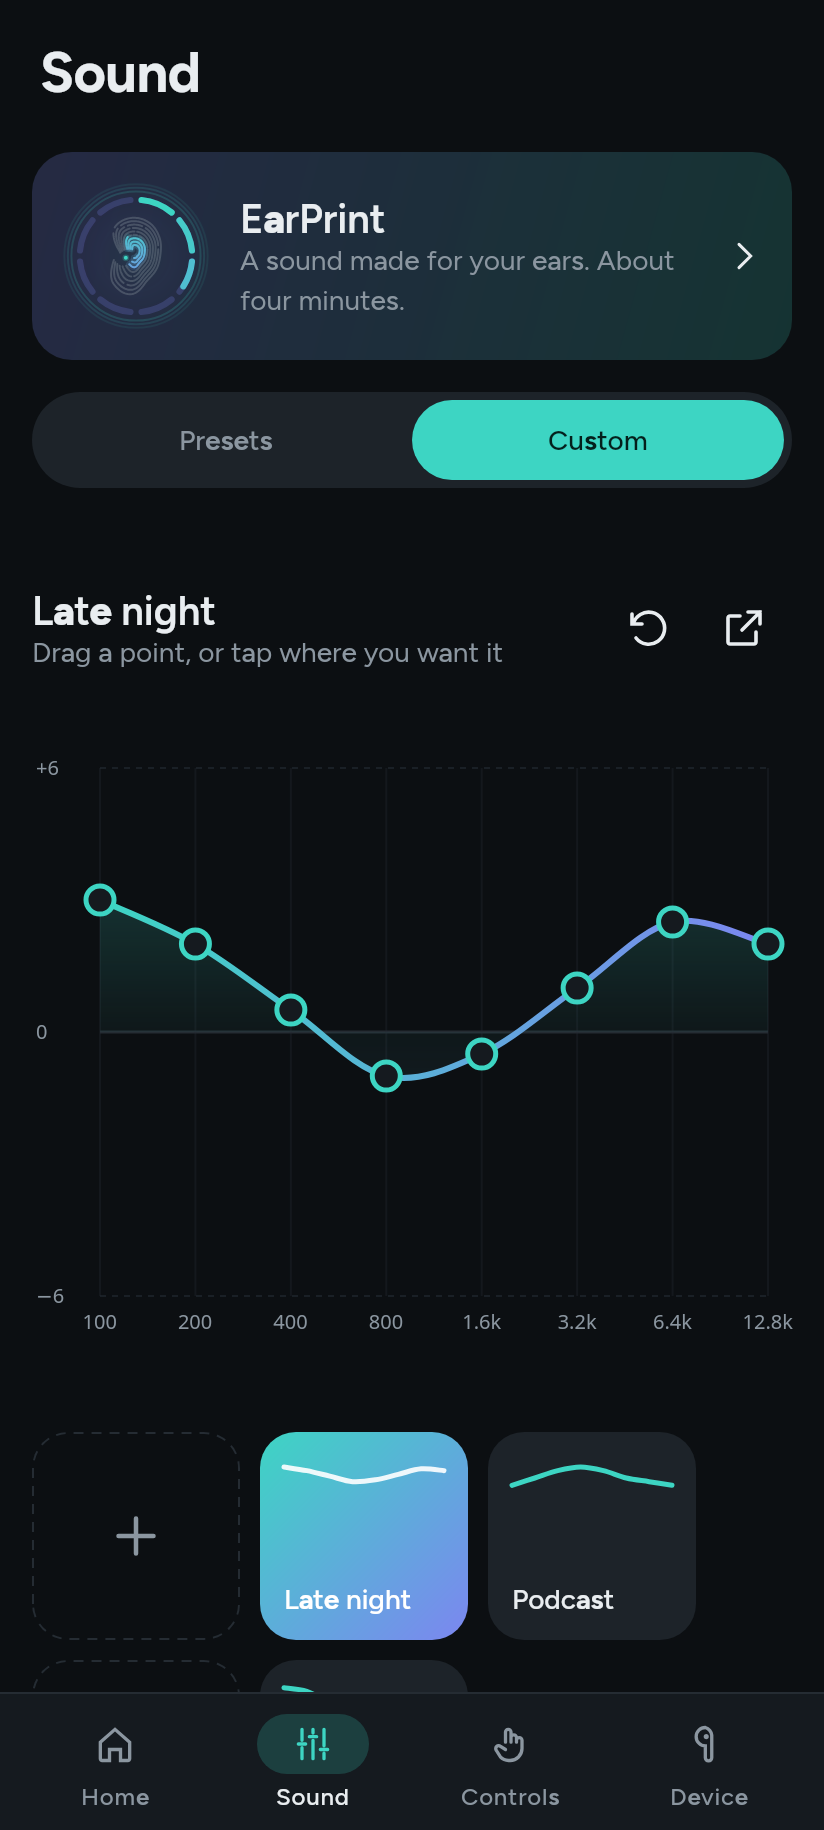
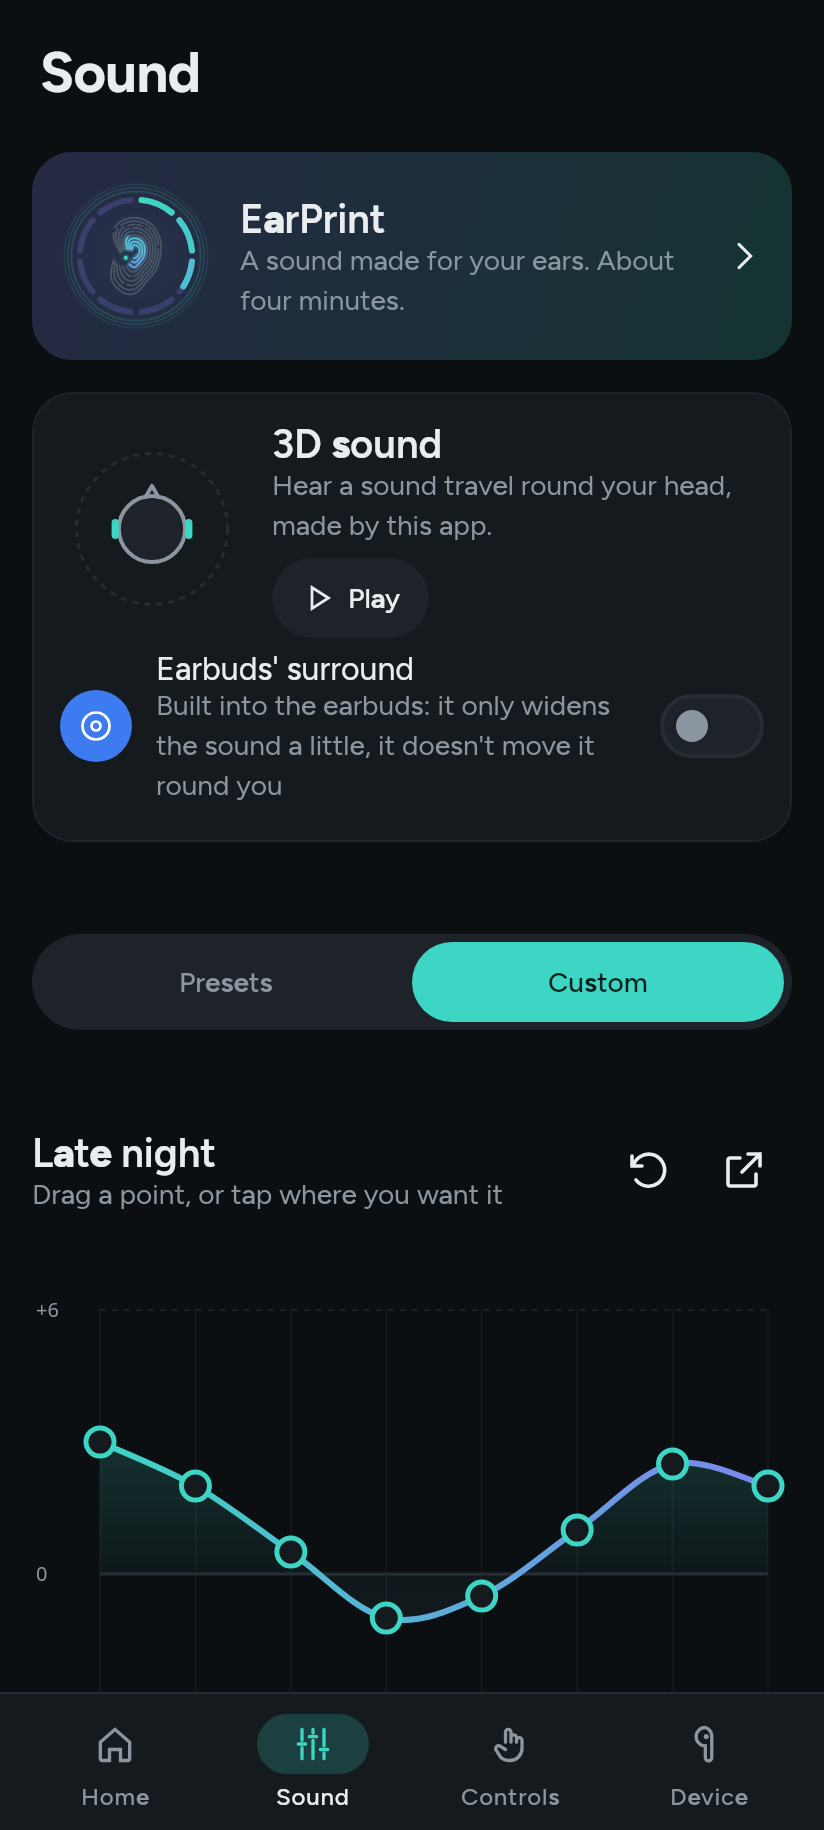
3D sound on the Sound tab: a sound made in the app that travels round your head, shown as a dot circling a head seen from above, next to the earbuds' own surround switch

diff --git a/core/src/commonMain/kotlin/com/blazify/buds/core/earprint/TestSounds.kt b/core/src/commonMain/kotlin/com/blazify/buds/core/earprint/TestSounds.kt
@@ -102,4 +102,115 @@ object TestSounds {
             }
         }
     }
+
+    /** How long one trip round the head takes in [circling], in seconds. */
+    const val CIRCLE_SECONDS = 6.0
+
+    /**
+     * A sound that travels round the head, twice, made to loop: a shaker and a soft pluck heard as if from a few
+     * steps away. Each ear gets it as it would in a room: a moment later and a little duller in the ear turned away
+     * from it, darker when it is behind, with a few faint echoes so it sits outside the head rather than inside it.
+     * Angle 0 is straight ahead and it moves to the right first; [angleAt] says where it is at any moment.
+     */
+    fun circling(): ShortArray {
+        val frames = (RATE * CIRCLE_SECONDS * 2).toInt()
+        val source = DoubleArray(frames)
+        val random = kotlin.random.Random(11)
+        // The shaker: short bursts of bright noise on every sixteenth note at 100 beats a minute.
+        val sixteenth = 60.0 / 100 / 4
+        var t0 = 0.0
+        var step = 0
+        while (t0 < frames.toDouble() / RATE) {
+            val start = (t0 * RATE).toInt()
+            val loud = if (step % 4 == 0) 0.55 else if (step % 2 == 0) 0.35 else 0.22
+            var hp = 0.0
+            var last = 0.0
+            for (i in 0 until (0.09 * RATE).toInt()) {
+                val f = start + i
+                if (f >= frames) break
+                val n = random.nextDouble() * 2 - 1
+                hp = 0.7 * (hp + n - last) // keep the hiss, lose the rumble
+                last = n
+                source[f] += hp * exp(-i / (0.018 * RATE)) * loud
+            }
+            // A soft pluck on each beat, rising through a chord.
+            if (step % 4 == 0) {
+                val notes = doubleArrayOf(220.0, 277.18, 329.63, 440.0, 329.63, 277.18)
+                val hz = notes[(step / 4) % notes.size]
+                for (i in 0 until (0.5 * RATE).toInt()) {
+                    val f = start + i
+                    if (f >= frames) break
+                    val t = i.toDouble() / RATE
+                    source[f] += (sin(2 * PI * hz * t) + 0.4 * sin(4 * PI * hz * t) + 0.15 * sin(6 * PI * hz * t)) * exp(-t * 6) * 0.25
+                }
+            }
+            t0 += sixteenth
+            step++
+        }
+        val left = DoubleArray(frames)
+        val right = DoubleArray(frames)
+        val headRadius = 0.0875
+        val speedOfSound = 343.0
+        var lowL = 0.0
+        var lowR = 0.0
+        var dark = 0.0
+        for (f in 0 until frames) {
+            val angle = angleAt(f.toDouble() / RATE)
+            val side = sin(angle) // +1 right, -1 left
+            val front = kotlin.math.cos(angle) // +1 ahead, -1 behind
+            // Arrives later at the far ear (Woodworth's model of a round head).
+            val lag = headRadius / speedOfSound * (kotlin.math.abs(asinSafe(side)) + kotlin.math.abs(side)) * RATE
+            fun at(delay: Double): Double {
+                val pos = f - delay
+                if (pos < 0) return source[((pos % frames) + frames).toInt() % frames]
+                val i = pos.toInt()
+                val frac = pos - i
+                return source[i] * (1 - frac) + source[(i + 1) % frames] * frac
+            }
+            val near = at(0.0)
+            val far = at(lag)
+            // Behind the head the outer ear hides the treble: darken both ears a little.
+            val behind = ((-front).coerceAtLeast(0.0))
+            dark += (0.25 + 0.6 * (1 - behind)) * (near - dark)
+            val nearSound = near * (1 - 0.35 * behind) + dark * 0.35 * behind
+            // The far ear is in the head's shadow: quieter, and duller the more the sound is to one side.
+            val shade = kotlin.math.abs(side)
+            val farGain = 1 - 0.65 * shade
+            val cut = 0.95 - 0.8 * shade
+            if (side >= 0) {
+                lowL += cut * (far - lowL)
+                left[f] = lowL * farGain
+                right[f] = nearSound
+            } else {
+                lowR += cut * (far - lowR)
+                right[f] = lowR * farGain
+                left[f] = nearSound
+            }
+        }
+        // A few faint early echoes, different in each ear, so it feels like a room around you.
+        val echoes = listOf(0.011 to 0.22, 0.017 to 0.16, 0.023 to 0.12, 0.031 to 0.08)
+        val outL = left.copyOf()
+        val outR = right.copyOf()
+        for ((k, echo) in echoes.withIndex()) {
+            val (seconds, gain) = echo
+            val dl = (seconds * RATE).toInt()
+            val dr = ((seconds + 0.0023 * (if (k % 2 == 0) 1 else -1)) * RATE).toInt()
+            for (f in 0 until frames) {
+                outL[f] += right[(f - dl + frames) % frames] * gain
+                outR[f] += left[(f - dr + frames) % frames] * gain
+            }
+        }
+        val peak = maxOf(outL.maxOf { kotlin.math.abs(it) }, outR.maxOf { kotlin.math.abs(it) }).coerceAtLeast(1e-6)
+        val out = ShortArray(frames * 2)
+        for (f in 0 until frames) {
+            out[f * 2] = (outL[f] / peak * 0.8 * Short.MAX_VALUE).toInt().toShort()
+            out[f * 2 + 1] = (outR[f] / peak * 0.8 * Short.MAX_VALUE).toInt().toShort()
+        }
+        return out
+    }
+
+    /** Where the circling sound is at [seconds] in: radians clockwise from straight ahead, seen from above. */
+    fun angleAt(seconds: Double): Double = 2 * PI * ((seconds / CIRCLE_SECONDS) % 1.0)
+
+    private fun asinSafe(x: Double) = kotlin.math.asin(x.coerceIn(-1.0, 1.0))
 }

diff --git a/ui/src/commonMain/kotlin/com/blazify/buds/ui/screens/DeeperScreens.kt b/ui/src/commonMain/kotlin/com/blazify/buds/ui/screens/DeeperScreens.kt
@@ -97,6 +97,8 @@ fun EqualizerScreen(state: BudsState, change: (Change) -> Unit, back: (() -> Uni
     fun shareSound(sound: com.blazify.buds.ui.SavedSound) =
         share("My Blazbuds sound \"${sound.name}\". In Blazbuds, open Sound › Custom › Add a code and paste:\n${sound.code()}")
 
+    ThreeDCard(state, change)
+    Spacer(Modifier.height(14.dp))
     TwoWay("Presets", "Custom", onSecond = custom) { custom = it }
     Spacer(Modifier.height(14.dp))
     if (!custom) {
@@ -648,6 +650,90 @@ private fun EarPrintCard(print: com.blazify.buds.core.model.EarPrintState, ready
             )
         } else {
             Icon(BudsIcons.Forward, null, tint = palette.text, modifier = Modifier.size(20.dp))
+        }
+    }
+}
+
+/**
+ * Real 3D, to hear the difference: a sound made in the app that travels round the head, drawn as a dot circling a
+ * head seen from above. Below it, the earbuds' own surround switch, which only widens the sound a little.
+ */
+@Composable
+private fun ThreeDCard(state: BudsState, change: (Change) -> Unit) {
+    val palette = LocalPalette.current
+    val sound = com.blazify.buds.ui.LocalSoundOut.current
+    var playing by remember { mutableStateOf(false) }
+    var samples by remember { mutableStateOf<ShortArray?>(null) }
+    var seconds by remember { mutableStateOf(0.0) }
+    LaunchedEffect(playing) {
+        if (!playing) return@LaunchedEffect
+        val made = samples ?: kotlinx.coroutines.withContext(kotlinx.coroutines.Dispatchers.Default) {
+            com.blazify.buds.core.earprint.TestSounds.circling()
+        }.also { samples = it }
+        sound.play(made, loop = true)
+        val start = androidx.compose.runtime.withFrameNanos { it }
+        while (true) androidx.compose.runtime.withFrameNanos { seconds = (it - start) / 1e9 }
+    }
+    androidx.compose.runtime.DisposableEffect(Unit) { onDispose { if (playing) sound.stop() } }
+    Panel(padding = 14.dp) {
+        Row(verticalAlignment = Alignment.CenterVertically, horizontalArrangement = Arrangement.spacedBy(14.dp)) {
+            HeadFromAbove(if (playing) com.blazify.buds.core.earprint.TestSounds.angleAt(seconds).toFloat() else null, Modifier.size(92.dp))
+            Column(Modifier.weight(1f)) {
+                Text("3D sound", style = MaterialTheme.typography.titleLarge, color = palette.text)
+                Text(
+                    if (playing) "Close your eyes: the sound goes round your head, to the right first." else "Hear a sound travel round your head, made by this app.",
+                    style = MaterialTheme.typography.bodyMedium,
+                    color = palette.muted,
+                )
+                Spacer(Modifier.height(8.dp))
+                Choice(if (playing) "Stop" else "Play", playing, icon = if (playing) null else BudsIcons.Play) {
+                    if (playing) sound.stop()
+                    playing = !playing
+                    seconds = 0.0
+                }
+            }
+        }
+        if (Toggle.Surround in state.toggles) {
+            SwitchRow(
+                Toggle.Surround.icon(), "Earbuds' surround", state.toggles[Toggle.Surround] == true,
+                { change(Change.Switch(Toggle.Surround, it)) },
+                detail = "Built into the earbuds: it only widens the sound a little, it doesn't move it round you",
+                color = Toggle.Surround.hue(),
+            )
+        }
+    }
+}
+
+/** A head seen from above, nose up, with the sound as a glowing dot going round it at [angle] radians. */
+@Composable
+private fun HeadFromAbove(angle: Float?, modifier: Modifier) {
+    val palette = LocalPalette.current
+    androidx.compose.foundation.Canvas(modifier) {
+        val c = center
+        val r = size.minDimension / 2
+        val head = r * 0.36f
+        // The path the sound takes.
+        drawCircle(palette.line, r * 0.82f, c, style = androidx.compose.ui.graphics.drawscope.Stroke(1.5.dp.toPx(), pathEffect = androidx.compose.ui.graphics.PathEffect.dashPathEffect(floatArrayOf(6f, 6f))))
+        // Head, nose and ears.
+        drawCircle(palette.raised, head, c)
+        drawCircle(palette.muted, head, c, style = androidx.compose.ui.graphics.drawscope.Stroke(2.dp.toPx()))
+        val nose = androidx.compose.ui.graphics.Path().apply {
+            moveTo(c.x - head * 0.22f, c.y - head * 0.92f); lineTo(c.x, c.y - head * 1.3f); lineTo(c.x + head * 0.22f, c.y - head * 0.92f)
+        }
+        drawPath(nose, palette.muted, style = androidx.compose.ui.graphics.drawscope.Stroke(2.dp.toPx(), join = androidx.compose.ui.graphics.StrokeJoin.Round))
+        for (sideX in listOf(-1f, 1f)) {
+            drawRoundRect(
+                palette.accent,
+                topLeft = androidx.compose.ui.geometry.Offset(c.x + sideX * head - (if (sideX < 0) head * 0.22f else 0f), c.y - head * 0.3f),
+                size = androidx.compose.ui.geometry.Size(head * 0.22f, head * 0.6f),
+                cornerRadius = androidx.compose.ui.geometry.CornerRadius(head * 0.11f),
+            )
+        }
+        if (angle != null) {
+            // Clockwise from straight ahead, seen from above.
+            val p = androidx.compose.ui.geometry.Offset(c.x + kotlin.math.sin(angle) * r * 0.82f, c.y - kotlin.math.cos(angle) * r * 0.82f)
+            drawCircle(palette.accent.copy(alpha = 0.25f), r * 0.2f, p)
+            drawCircle(palette.accent, r * 0.1f, p)
         }
     }
 }

diff --git a/ui/src/commonMain/kotlin/com/blazify/buds/ui/icons/BudsIcons.kt b/ui/src/commonMain/kotlin/com/blazify/buds/ui/icons/BudsIcons.kt
@@ -52,6 +52,7 @@ object BudsIcons {
     val Case = line("M5 9.5h14v5.5a5 5 0 0 1-5 5h-4a5 5 0 0 1-5-5zM5 9.5a4.5 4.5 0 0 1 4.5-4.5h5A4.5 4.5 0 0 1 19 9.5M11 13h2")
     val Trash = line("M5 7h14M10 7V4.5h4V7M7 7l1 13h8l1-13M10.5 11v5.5M13.5 11v5.5")
     val Copy = line("M9 9h10v11H9zM5 15V4h10")
+    val Play = line("M8 5v14l11-7z")
     val Undo = line("M4 5v5h5M4.6 10A8 8 0 1 1 6 17")
     val Download = line("M12 4v11M7 10l5 5 5-5M5 20h14")
     val Share = line("M14 4h6v6M20 4l-9 9M18 14v5a1 1 0 0 1-1 1H5a1 1 0 0 1-1-1V7a1 1 0 0 1 1-1h5")

diff --git a/core/src/jvmTest/kotlin/com/blazify/buds/core/earprint/DemoWavTest.kt b/core/src/jvmTest/kotlin/com/blazify/buds/core/earprint/DemoWavTest.kt
@@ -11,6 +11,7 @@ class DemoWavTest {
         dir.mkdirs()
         wav(File(dir, "demo.wav"), TestSounds.demo())
         wav(File(dir, "beep-1k-left.wav"), TestSounds.beeps(1000, -30.0, left = true, right = false))
+        wav(File(dir, "circling.wav"), TestSounds.circling())
     }
 
     private fun wav(file: File, samples: ShortArray) {
